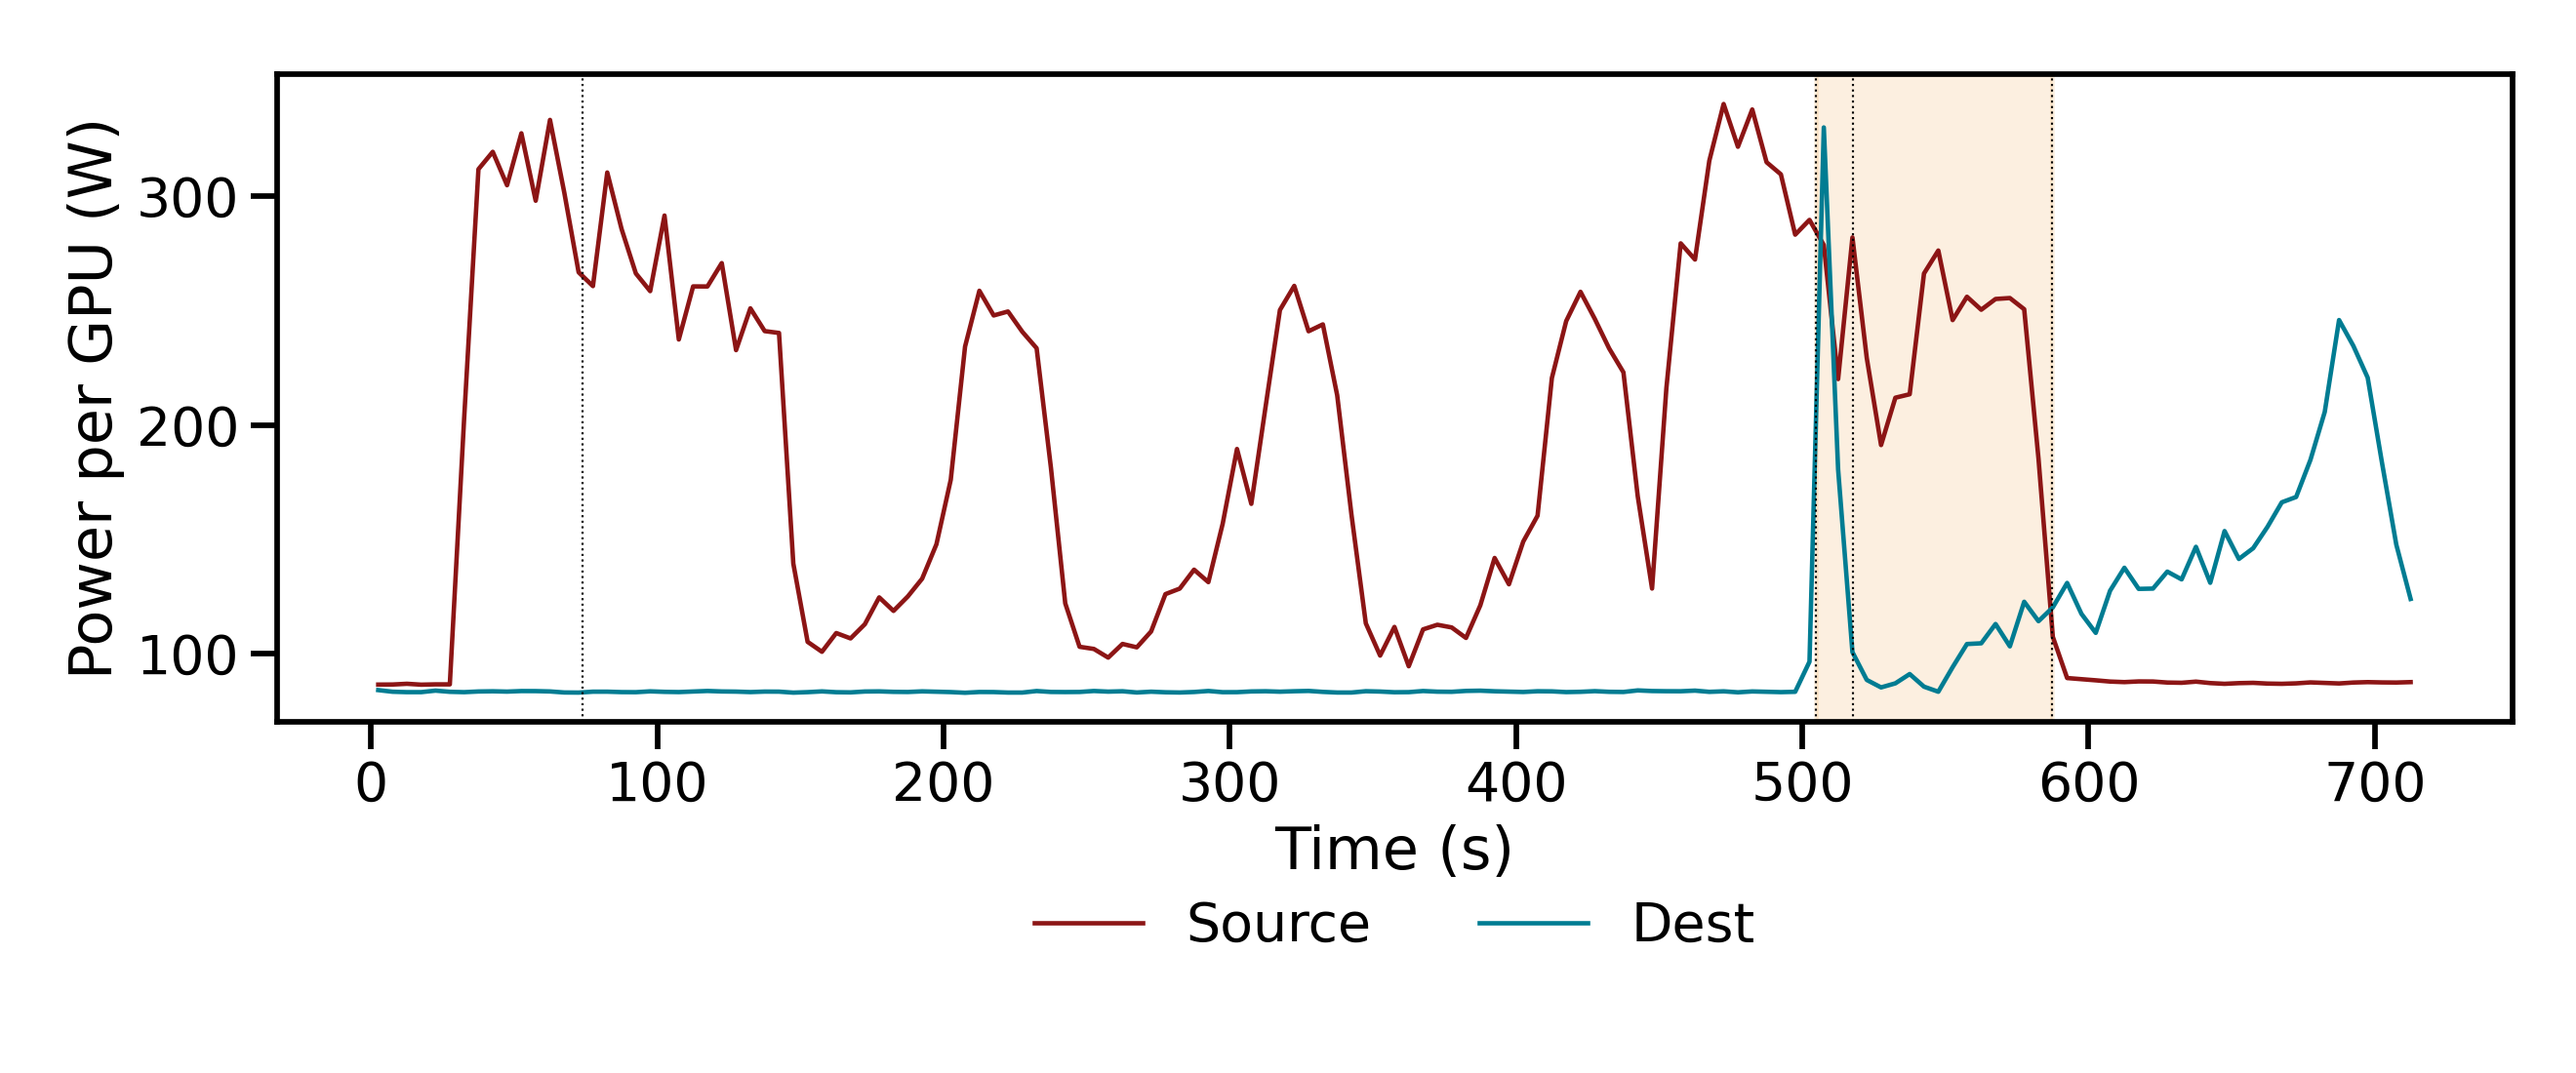
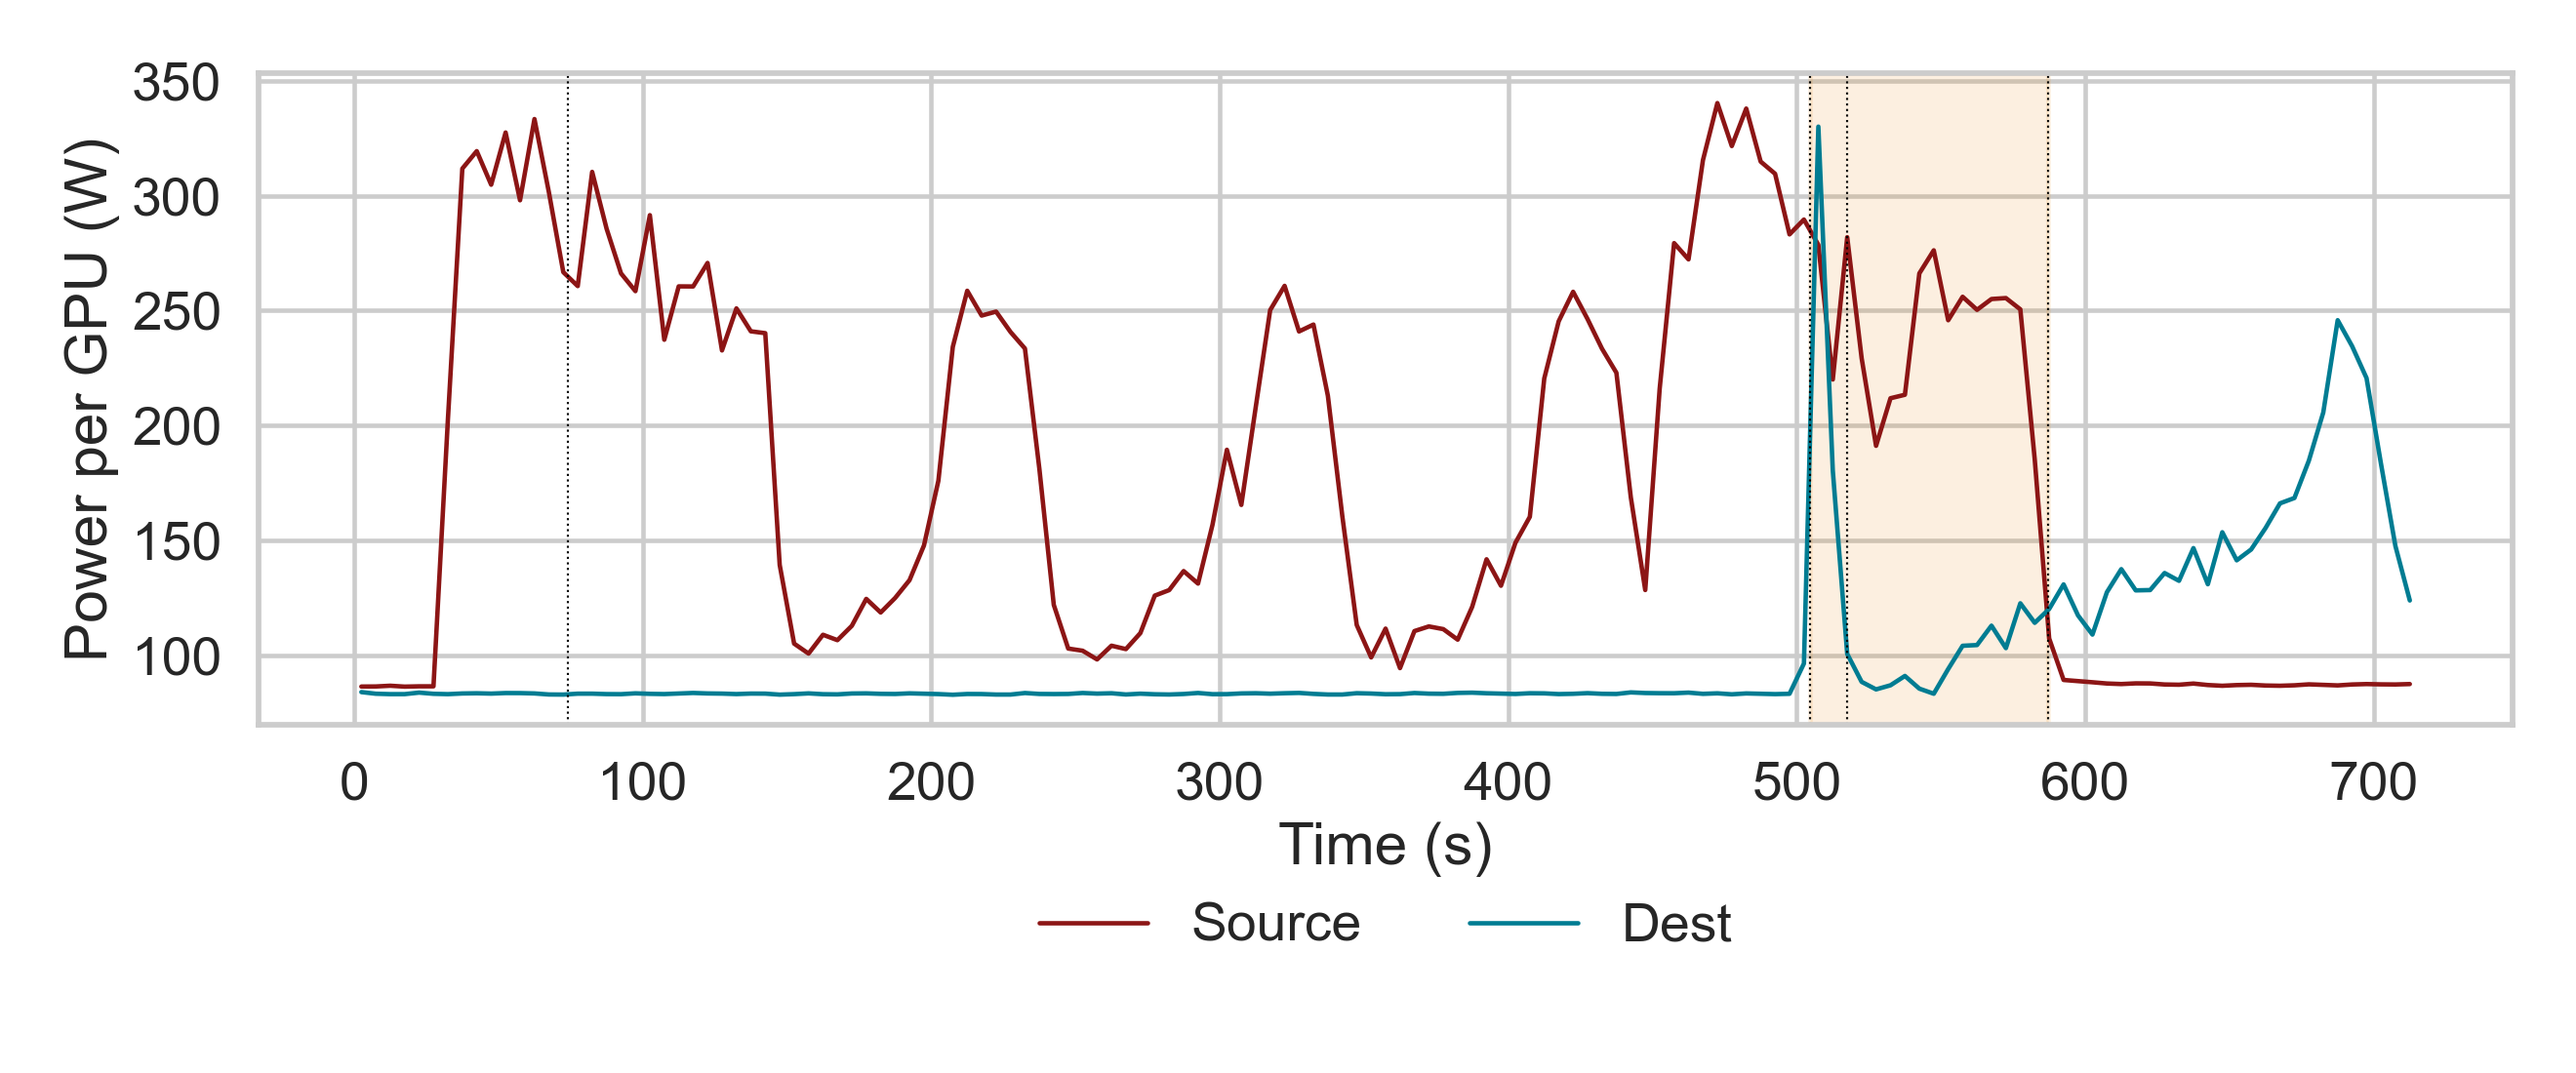
Use white grid for site power plot

diff --git a/agent-migrate/queue-haul/outputs/live-power-oneoff/driver.py b/agent-migrate/queue-haul/outputs/live-power-oneoff/driver.py
@@ -248,6 +248,7 @@ def reduce_power(run_root: Path, local_power: Path, markers: Markers,
     write_json(run_root / "power_summary.json", summary)
 
     origin = markers.rows[0]["wall_ns"] / 1e9
+    sns.set_style("whitegrid")
     sns.set_context("talk", font_scale=1.1)
     fig, ax = plt.subplots(figsize=(12, 5))
     for label, uuid, color in (

diff --git a/agent-migrate/queue-haul/outputs/live-power-oneoff/README.md b/agent-migrate/queue-haul/outputs/live-power-oneoff/README.md
@@ -2,7 +2,7 @@
 
 Slurm job `37368991` ran eight LMCache replay migrations across two A100 80 GB GPUs while trace-shaped inference remained queued on the source, then switched queued inference to the destination. No LMCache bypass was used.
 
-`run-37368991/` contains native PowerTrace samples, phase markers, queue metrics for all three foreground intervals, payload-free transfer telemetry, a prompt-free migration summary, and rendered plots. The power plot averages Stanford Poppy source and Stanford Lagunita destination samples into fixed 5 s bins. Request bodies and message-bearing result files are intentionally excluded. `driver.submitted.py` is the exact job driver; `../driver.py` adds portable postprocessing and the documented sampling-coverage gate.
+`run-37368991/` contains native PowerTrace samples, phase markers, queue metrics for all three foreground intervals, payload-free transfer telemetry, a prompt-free migration summary, and rendered plots. The power plot averages Stanford Poppy source and Stanford Lagunita destination samples into fixed 5 s bins; its highlighted region spans migration start through source shutdown, when both GPUs are active. Request bodies and message-bearing result files are intentionally excluded. `driver.submitted.py` is the exact job driver; `../driver.py` adds portable postprocessing and the documented sampling-coverage gate.
 
 Slurm recorded exit `1` only after the completed measurement because the submitted reducer rejected any cadence gap over 250 ms. The portable reducer instead hard-fails below 90% overall coverage or above a one-second blind spot.
 
